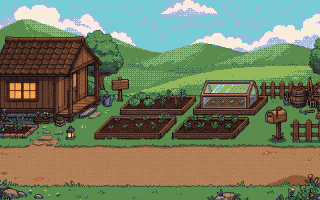
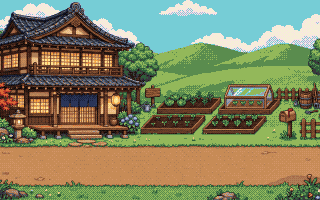
art(kotoba-mura): upgrade garden backdrop to 2-story traditional Japanese Ryokan and align Episode 1
- Replace raw_bg_kotoba_garden.png with 2-story traditional Japanese Ryokan (kawara roofs, shoji windows, indigo noren, hanging lantern, stone toro) beside Kotoba Batake garden; reprocess via art_manifest.py (37 jp_story_master colors, identical provenance)
- Realign kotoba_garden ambient glows (hanging lantern, stone toro, shoji), glass cloche shimmer, watering can stream into the 5 leaves under the glass cover [246, 102], and Route B walk paths entering the Ryokan porch
- Lift drag-person tag cleanly above the character's head (personBox height) in CinemaStage.tsx

diff --git a/web/src/components/CinemaStage.tsx b/web/src/components/CinemaStage.tsx
@@ -936,14 +936,17 @@ export function CinemaStage({
 
         {interaction?.type === "drag" &&
           phase === "interact" &&
-          (interaction.items ?? []).map((it, i) =>
-            it.label && !dragRef.current[i]?.placed && draggingId !== it.id ? (
-              <div key={it.id} className="cine-tag" style={toPct(it.from[0], it.from[1] - 22)}>
+          (interaction.items ?? []).map((it, i) => {
+            if (!it.label || dragRef.current[i]?.placed || draggingId === it.id) return null;
+            const pdef = it.person ? currentScene.people?.[it.person] : undefined;
+            const lift = pdef ? personBox(pdef.kind, spritesRef.current).h + 12 : 22;
+            return (
+              <div key={it.id} className="cine-tag" style={toPct(it.from[0], it.from[1] - lift)}>
                 <RubyText segments={it.label} showFurigana={showFurigana} />
                 {it.labelVi && <span className="cine-tag-sub">{it.labelVi}</span>}
               </div>
-            ) : null
-          )}
+            );
+          })}
         {interaction?.type === "tap" &&
           (interaction.spots ?? []).map((s) =>
             foundIds.includes(s.id) && s.label ? (
